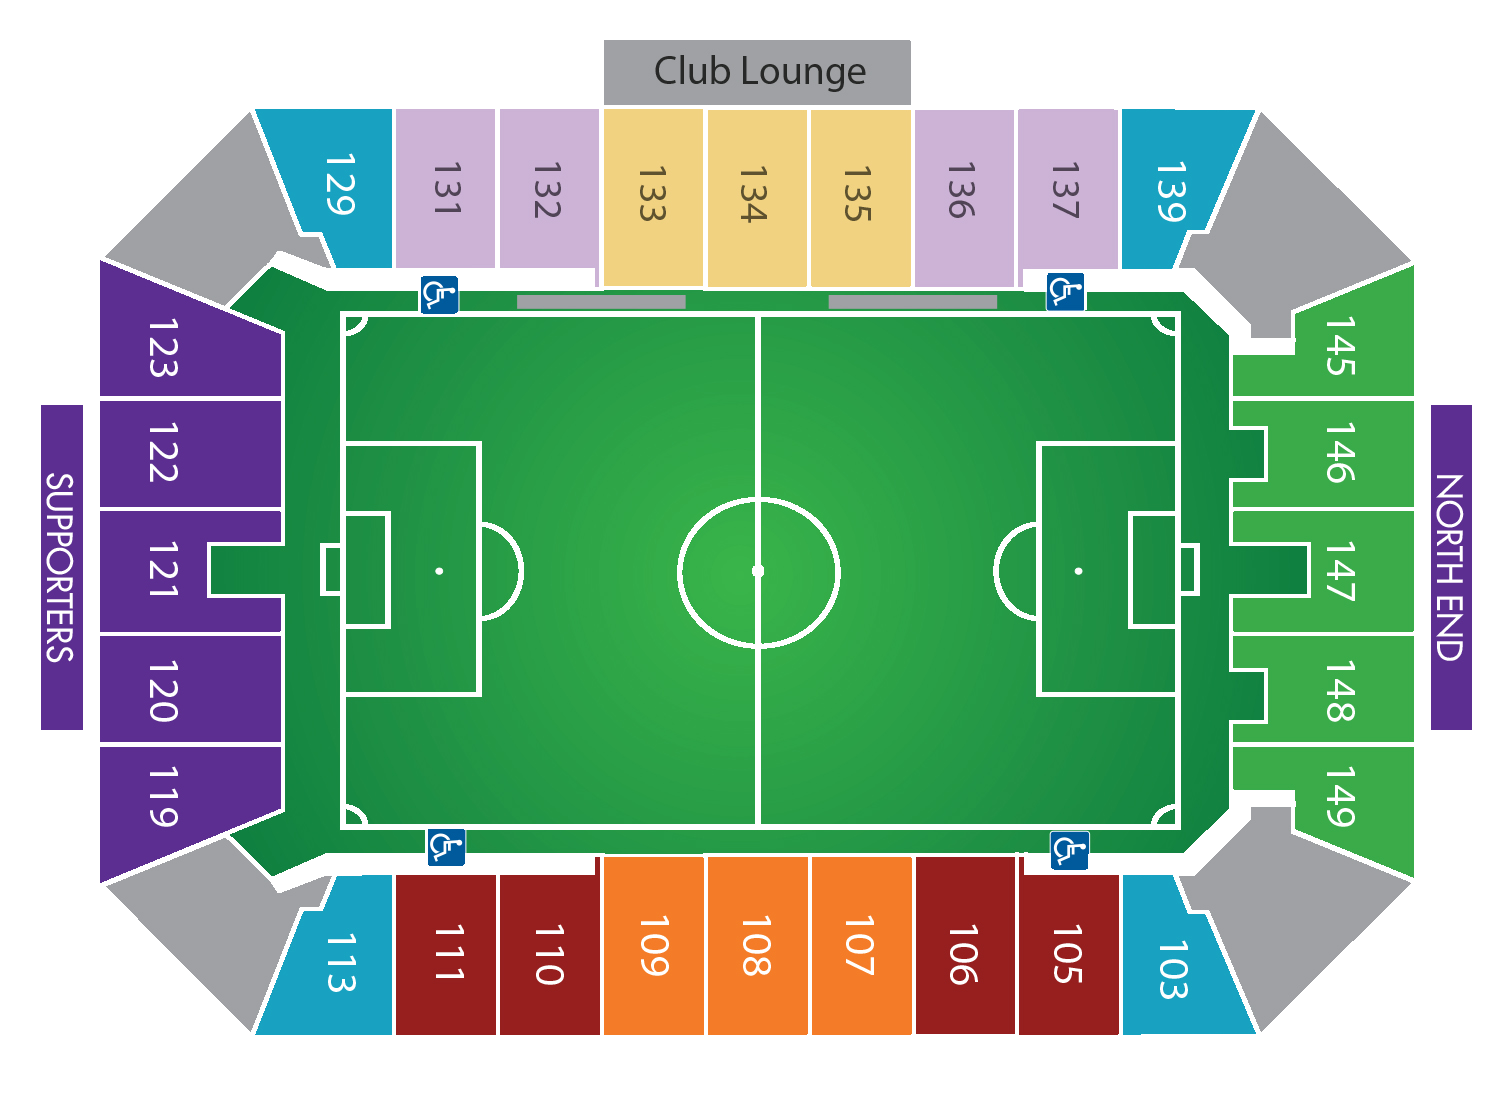
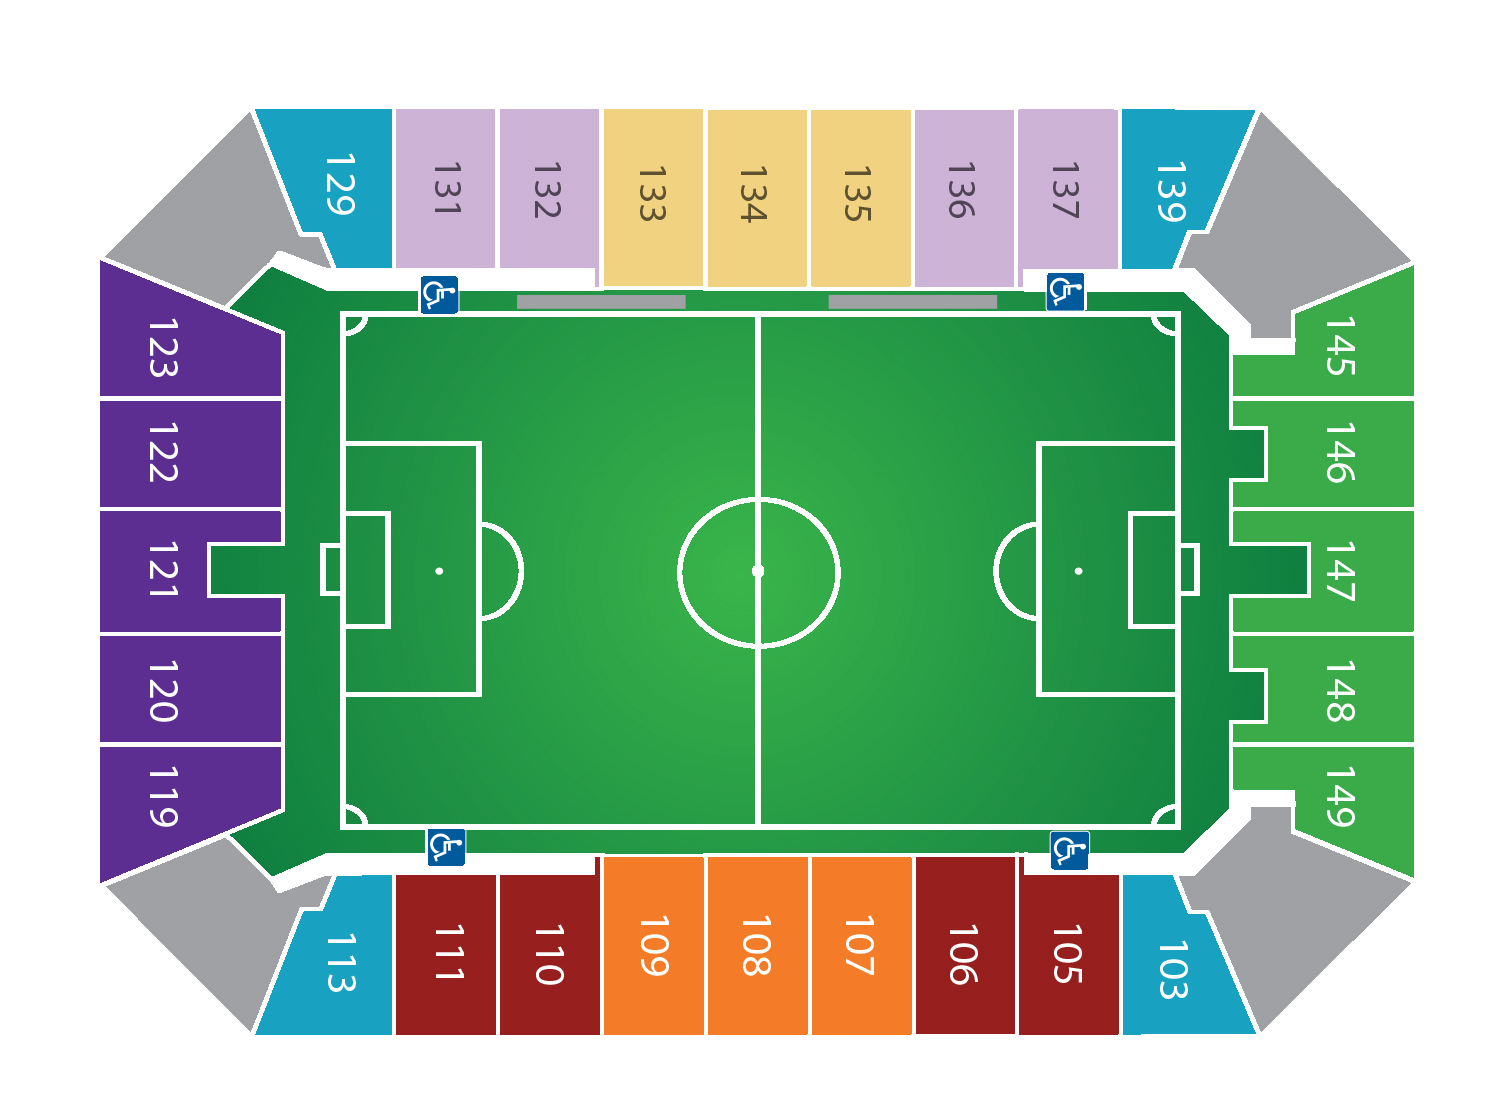
Finished stadium layout with buttons - Added new stylesheet - Modified the stadium image to have a transparent background - Added the new button with it's respective classes Signed-off-by: josue-martinez-jd <josue.martinez@janeirodigital.com>

Changed region(s): [[0.0, 0.3723, 0.0615, 0.6825], [0.3997, 0.031, 0.615, 0.0931], [0.9532, 0.3723, 0.984, 0.6825]]

diff --git a/assets/css/styles.css b/assets/css/styles.css
@@ -1,0 +1,39 @@
+body {
+}
+
+
+.container {
+    position: relative;
+    width: 100%;
+}
+
+.container img {
+    width: 100%;
+    height: auto;
+}
+
+.container .btn {
+    position: absolute;
+    width: 19%;
+    transform: translate(-50%, -50%);
+    font-size: 16px;
+    color: black;
+    padding: 12px 24px;
+    border: none;
+    cursor: pointer;
+    left: 50.5%;
+}
+
+.container .rotated {
+    transform: rotate(90deg);
+    top: 47.5%;
+}
+
+.container .btn:hover {
+    background-color: black;
+}
+
+
+
+
+
